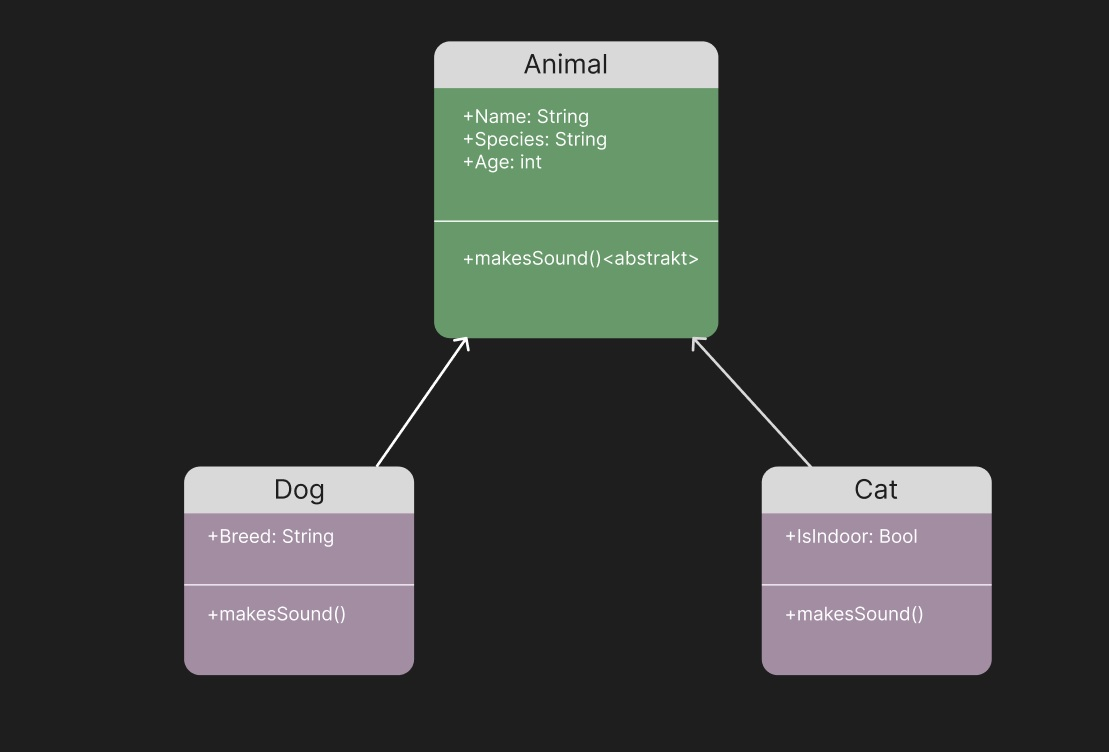
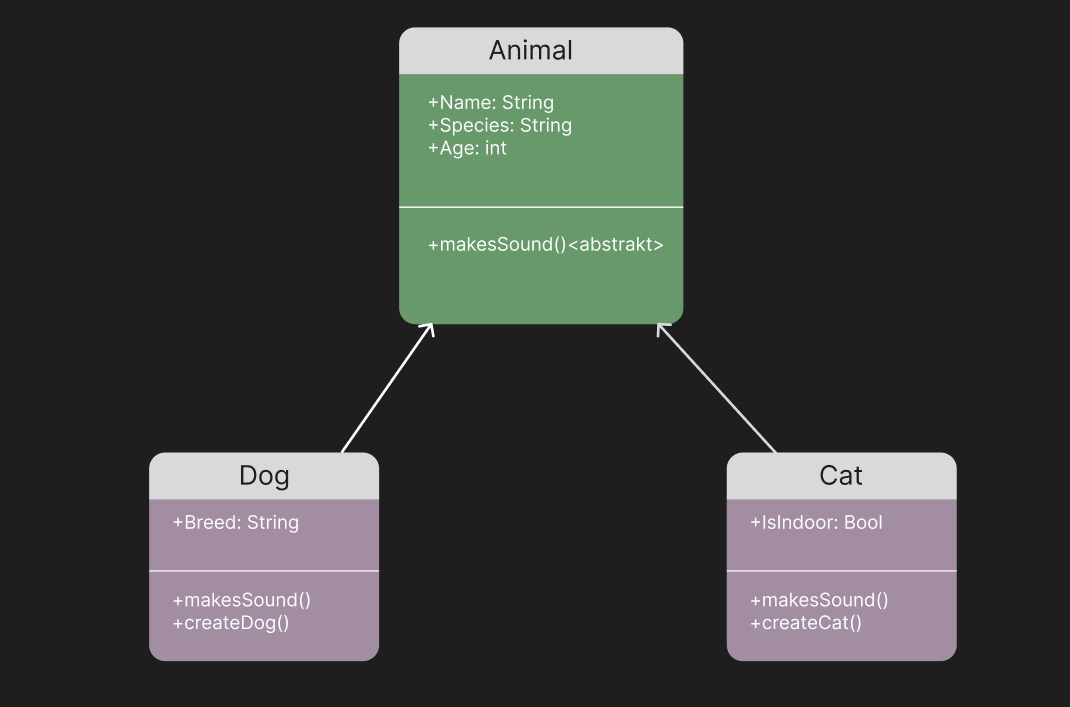
created another method for adding cats and dogs

Changed region(s): [[0.1234, 0.0311, 0.6477, 0.9335], [0.6477, 0.4979, 0.8944, 0.9335]]

diff --git a/Program.cs b/Program.cs
@@ -16,27 +16,21 @@ namespace AnimalUMLExercise
 
             Dog secondDog = new Dog(); 
 
-            secondDog.Name = "Ghost";
-            secondDog.Age = 3;
-            secondDog.Species = "Canine";
-            secondDog.Breed = "Husky";
-
+            secondDog.CreateDog("Ghost", "Canine", 3, "Husky");
+    
             secondDog.MakeSound();
 
             Cat firstCat = new Cat();
             firstCat.Name = "Jerry";
-            firstCat.Age = 2;
             firstCat.Species = "Feline";
+            firstCat.Age = 2;
             firstCat.IsIndoor = true;
 
             firstCat.MakeSound();
 
             Cat secondCat = new Cat();
-            secondCat.Name = "Tom";
-            secondDog.Age = 5;
-            secondCat.Species = "Feline";
-            secondCat.IsIndoor = false;
-
+            secondCat.CreateCat(secondCat.Name = "Tom", secondCat.Species = "Feline", secondCat.Age = 5, secondCat.IsIndoor = false);
+      
             secondCat.MakeSound();
         }
     }

diff --git a/Animals/Dog.cs b/Animals/Dog.cs
@@ -3,16 +3,26 @@
     public class Dog : Animal
     {
         public string Breed { get; set; }
+
+        public void CreateDog(string name, string species, int age, string breed)
+        {
+            Name = name;
+            Species = species;
+            Age = age;
+            Breed = breed;
+
+
+        }
         public override void MakeSound()
         {
             if (!string.Equals(Breed, "husky", StringComparison.OrdinalIgnoreCase))
             {
-                Console.WriteLine("Woof!");
+                Console.WriteLine($"{Name} says: Woof!");
 
             }
             else
             {
-                Console.WriteLine("Awoooo!");
+                Console.WriteLine($"{Name} says: Awoooo!");
             }
         }
     }

diff --git a/Animals/Cat.cs b/Animals/Cat.cs
@@ -3,16 +3,25 @@
     internal class Cat : Animal
     {
         public bool IsIndoor { get; set; }
+        public void CreateCat(string name, string species, int age, bool isIndoor)
+        {
+            Name = name;
+            Species = species;
+            Age = age;
+            IsIndoor = isIndoor;
+
+
+        }
         public override void MakeSound()
         {
             if (!IsIndoor)
             {
-                Console.WriteLine("Let meee out! MEOOW!");
+                Console.WriteLine($"{Name} says: Let meee out! MEOOW!");
 
             }
             else
             {
-                Console.WriteLine("Meow! "); 
+                Console.WriteLine($"{Name} says:Meow! "); 
             }
         }
     }
